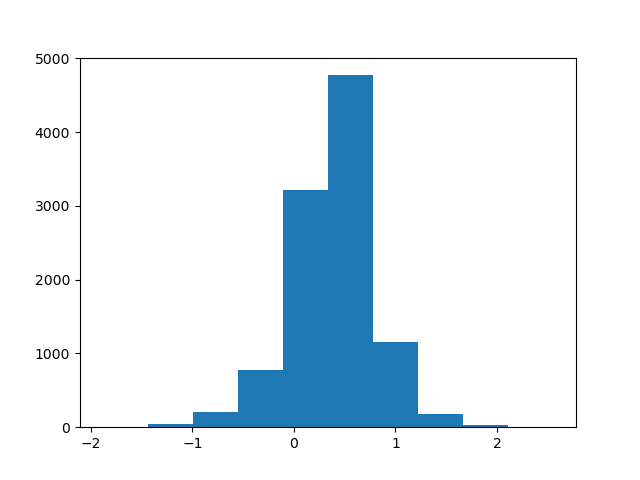
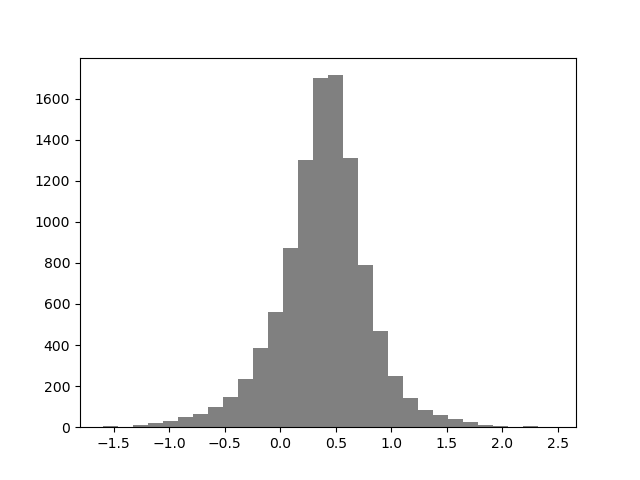
Update histograms.

diff --git a/src/script.py b/src/script.py
@@ -11,6 +11,7 @@ from sklearn.linear_model import LogisticRegression
 
 _COACHING_COLOR = "green"
 _NO_COACHING_COLOR = "red"
+_NEUTRAL_COLOR = "grey"
 
 
 def step_1():
@@ -50,11 +51,12 @@ def step_1():
 
 def step_2(df, outcome_column, treatment_column):
     fig, axs = plt.subplots(nrows=1, ncols=2, figsize=(30, 10))
-    axs[0].hist(df[outcome_column])
+    axs[0].hist(df[outcome_column], bins=30, color=_NEUTRAL_COLOR)
     axs[0].set_xlabel("outcome")
 
     axs[1].hist(
         df[df[treatment_column] == 1][outcome_column],
+        bins=30,
         density=True,
         alpha=0.5,
         color=_COACHING_COLOR,
@@ -62,6 +64,7 @@ def step_2(df, outcome_column, treatment_column):
     )
     axs[1].hist(
         df[df[treatment_column] == 0][outcome_column],
+        bins=30,
         density=True,
         alpha=0.5,
         label="no coaching",
@@ -99,7 +102,7 @@ def step_3(df, outcome_column, treatment_column, feature_columns):
     )
 
     fig, ax = plt.subplots()
-    ax.hist(cate_estimates_rlearner)
+    ax.hist(cate_estimates_rlearner, bins=30, color=_NEUTRAL_COLOR)
     fig.savefig("hist_cates.png")
 
     return rlearner
